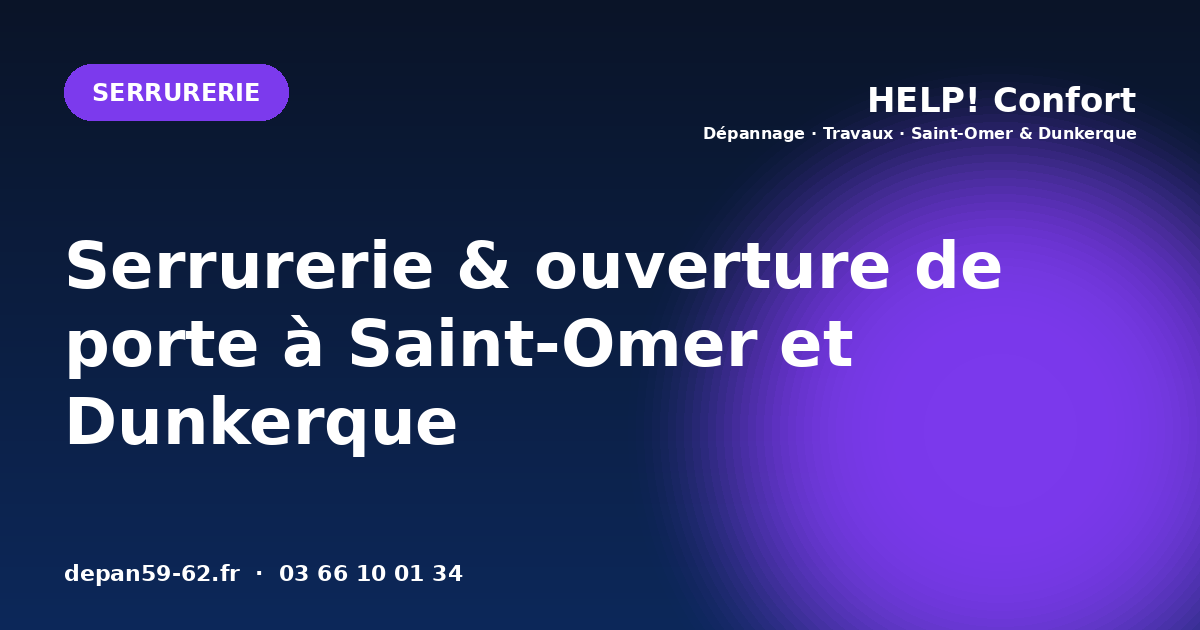
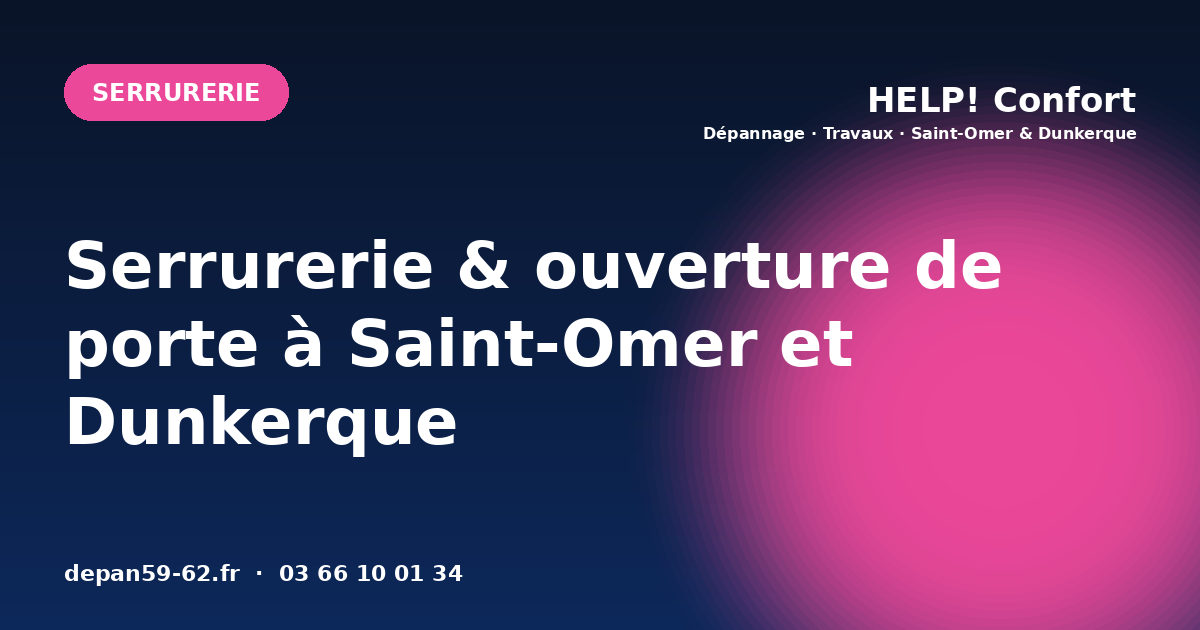
Auto-push 2026-05-15 16:19 — 7 fichier(s)

diff --git a/realisations.html b/realisations.html
@@ -434,7 +434,7 @@ if (document.fonts && document.fonts.ready) {
  </div>
 </section>
 
-<style>.ra-news-card{background:#fff;border:1px solid #E5EDF3;border-radius:16px;overflow:hidden;display:flex;flex-direction:column;transition:transform.25s ease,box-shadow.25s ease;text-decoration:none;color:inherit}.ra-news-card:hover{transform:translateY(-3px);box-shadow:0 18px 40px rgba(10,20,40,.08);border-color:rgba(13,160,207,.30)}.ra-news-card-img{width:100%;aspect-ratio:16/9;display:flex;align-items:center;justify-content:center;color:#fff;font-size:.74rem;font-weight:800;letter-spacing:2px;position:relative;overflow:hidden;background:linear-gradient(135deg,#0A1428,#0DA0CF)}.ra-news-card-img::after{content:"";position:absolute;inset:0;background:linear-gradient(180deg,transparent 55%,rgba(0,0,0,.20));pointer-events:none}.ra-news-card-img svg{width:42%;height:42%;opacity:.92;position:relative;z-index:1}.ra-news-card-img.ra-news-cat{position:absolute;bottom:10px;left:10px;background:rgba(0,0,0,.30);backdrop-filter:blur(4px);padding:4px 9px;border-radius:6px;font-size:.66rem;letter-spacing:1.6px;z-index:2}.ra-news-card-img[data-cat="plomberie"]{background:linear-gradient(135deg,#0DA0CF,#0884AE)}.ra-news-card-img[data-cat="chauffage"]{background:linear-gradient(135deg,#FF6B1A,#C2410C)}.ra-news-card-img[data-cat="electricite"]{background:linear-gradient(135deg,#FFB400,#B45309)}.ra-news-card-img[data-cat="serrurerie"]{background:linear-gradient(135deg,#7C3AED,#5B21B6)}.ra-news-card-img[data-cat="vitrerie"]{background:linear-gradient(135deg,#0EA5E9,#0369A1)}.ra-news-card-img[data-cat="menuiserie"]{background:linear-gradient(135deg,#92400E,#78350F)}.ra-news-card-img[data-cat="renovation"]{background:linear-gradient(135deg,#22A06B,#15803D)}.ra-news-card-img[data-cat="travaux"]{background:linear-gradient(135deg,#22A06B,#15803D)}.ra-news-card-body{padding:14px 16px;flex:1;display:flex;flex-direction:column;gap:6px}.ra-news-card-eyebrow{font-size:.7rem;font-weight:700;letter-spacing:1.4px;color:#0DA0CF;text-transform:uppercase}.ra-news-card-title{font-size:1rem;font-weight:700;color:#0A1428;line-height:1.3;margin:0}.ra-news-card-foot{margin-top:auto;font-size:.78rem;color:#94a3b8;padding-top:6px}
+<style>.ra-news-card{background:#fff;border:1px solid #E5EDF3;border-radius:16px;overflow:hidden;display:flex;flex-direction:column;transition:transform.25s ease,box-shadow.25s ease;text-decoration:none;color:inherit}.ra-news-card:hover{transform:translateY(-3px);box-shadow:0 18px 40px rgba(10,20,40,.08);border-color:rgba(13,160,207,.30)}.ra-news-card-img{width:100%;aspect-ratio:16/9;display:flex;align-items:center;justify-content:center;color:#fff;font-size:.74rem;font-weight:800;letter-spacing:2px;position:relative;overflow:hidden;background:linear-gradient(135deg,#0A1428,#0DA0CF)}.ra-news-card-img::after{content:"";position:absolute;inset:0;background:linear-gradient(180deg,transparent 55%,rgba(0,0,0,.20));pointer-events:none}.ra-news-card-img svg{width:42%;height:42%;opacity:.92;position:relative;z-index:1}.ra-news-card-img.ra-news-cat{position:absolute;bottom:10px;left:10px;background:rgba(0,0,0,.30);backdrop-filter:blur(4px);padding:4px 9px;border-radius:6px;font-size:.66rem;letter-spacing:1.6px;z-index:2}.ra-news-card-img[data-cat="plomberie"]{background:linear-gradient(135deg,#0DA0CF,#0884AE)}.ra-news-card-img[data-cat="chauffage"]{background:linear-gradient(135deg,#FF6B1A,#C2410C)}.ra-news-card-img[data-cat="electricite"]{background:linear-gradient(135deg,#FFB400,#B45309)}.ra-news-card-img[data-cat="serrurerie"]{background:linear-gradient(135deg,#EC4899,#BE185D)}.ra-news-card-img[data-cat="vitrerie"]{background:linear-gradient(135deg,#0EA5E9,#0369A1)}.ra-news-card-img[data-cat="menuiserie"]{background:linear-gradient(135deg,#92400E,#78350F)}.ra-news-card-img[data-cat="renovation"]{background:linear-gradient(135deg,#22A06B,#15803D)}.ra-news-card-img[data-cat="travaux"]{background:linear-gradient(135deg,#22A06B,#15803D)}.ra-news-card-body{padding:14px 16px;flex:1;display:flex;flex-direction:column;gap:6px}.ra-news-card-eyebrow{font-size:.7rem;font-weight:700;letter-spacing:1.4px;color:#0DA0CF;text-transform:uppercase}.ra-news-card-title{font-size:1rem;font-weight:700;color:#0A1428;line-height:1.3;margin:0}.ra-news-card-foot{margin-top:auto;font-size:.78rem;color:#94a3b8;padding-top:6px}
 </style>
 
 <script>

diff --git a/serrurier-saint-omer.html b/serrurier-saint-omer.html
@@ -424,9 +424,9 @@ if (document.fonts && document.fonts.ready) {
 <!-- ═══ PAGE SERRURERIE — VERSION COMPACTE PREMIUM ═══ -->
 <style>
  body[data-metier-page="serrurerie"] {
- --m-color: #9333EA;
- --m-color-dark: #6B21A8;
- --m-color-light: #C4B5FD;
+ --m-color: #EC4899;
+ --m-color-dark: #BE185D;
+ --m-color-light: #FBCFE8;
  --m-glow: rgba(0,0,0,.20);
  --m-soft: rgba(0,0,0,.05);
  }
@@ -896,7 +896,7 @@ if (document.fonts && document.fonts.ready) {
  <span class="m-trust-pill-badge">Vérifié</span>
  </a>
  <a href="https://trustville.com/avis-clients/pc/6D2evM/services_a_la_personne/saint_martin_lez_tatinghem/help_confort_saint_omer" target="_blank" rel="noopener" class="m-trust-pill">
- <svg width="16" height="16" class="m-trust-pill-logo" viewBox="0 0 24 24"><circle cx="12" cy="12" r="11" fill="#7C3AED"/><circle cx="12" cy="12" r="9.5" fill="none" stroke="#fff" stroke-width=".8"/><path d="M7.5 12.5l3 3 6-6.5" stroke="#fff" stroke-width="2.4" fill="none" stroke-linecap="round" stroke-linejoin="round"/></svg>
+ <svg width="16" height="16" class="m-trust-pill-logo" viewBox="0 0 24 24"><circle cx="12" cy="12" r="11" fill="#EC4899"/><circle cx="12" cy="12" r="9.5" fill="none" stroke="#fff" stroke-width=".8"/><path d="M7.5 12.5l3 3 6-6.5" stroke="#fff" stroke-width="2.4" fill="none" stroke-linecap="round" stroke-linejoin="round"/></svg>
  <span class="m-trust-pill-data">
  <span class="num"><span data-trustville-rating>4,0</span>/5</span>
  <span class="stars">★★★★<span style="color:#cbd5e1">★</span></span>

diff --git a/scripts/gen_og_images.py b/scripts/gen_og_images.py
@@ -65,7 +65,7 @@ METIER_PREFIX = [
     ('plombier-',     ('Plomberie',     '#0DA0CF')),
     ('chauffagiste-', ('Chauffage',     '#FF6B1A')),
     ('electricien-',  ('Électricité',   '#FFB400')),
-    ('serrurier-',    ('Serrurerie',    '#7C3AED')),
+    ('serrurier-',    ('Serrurerie',    '#EC4899')),
     ('travaux-',      ('Travaux',       '#22A06B')),
     ('depannage-',    ('Dépannage',     '#0DA0CF')),
     ('guide-',        ('Guide',         '#0DA0CF')),
